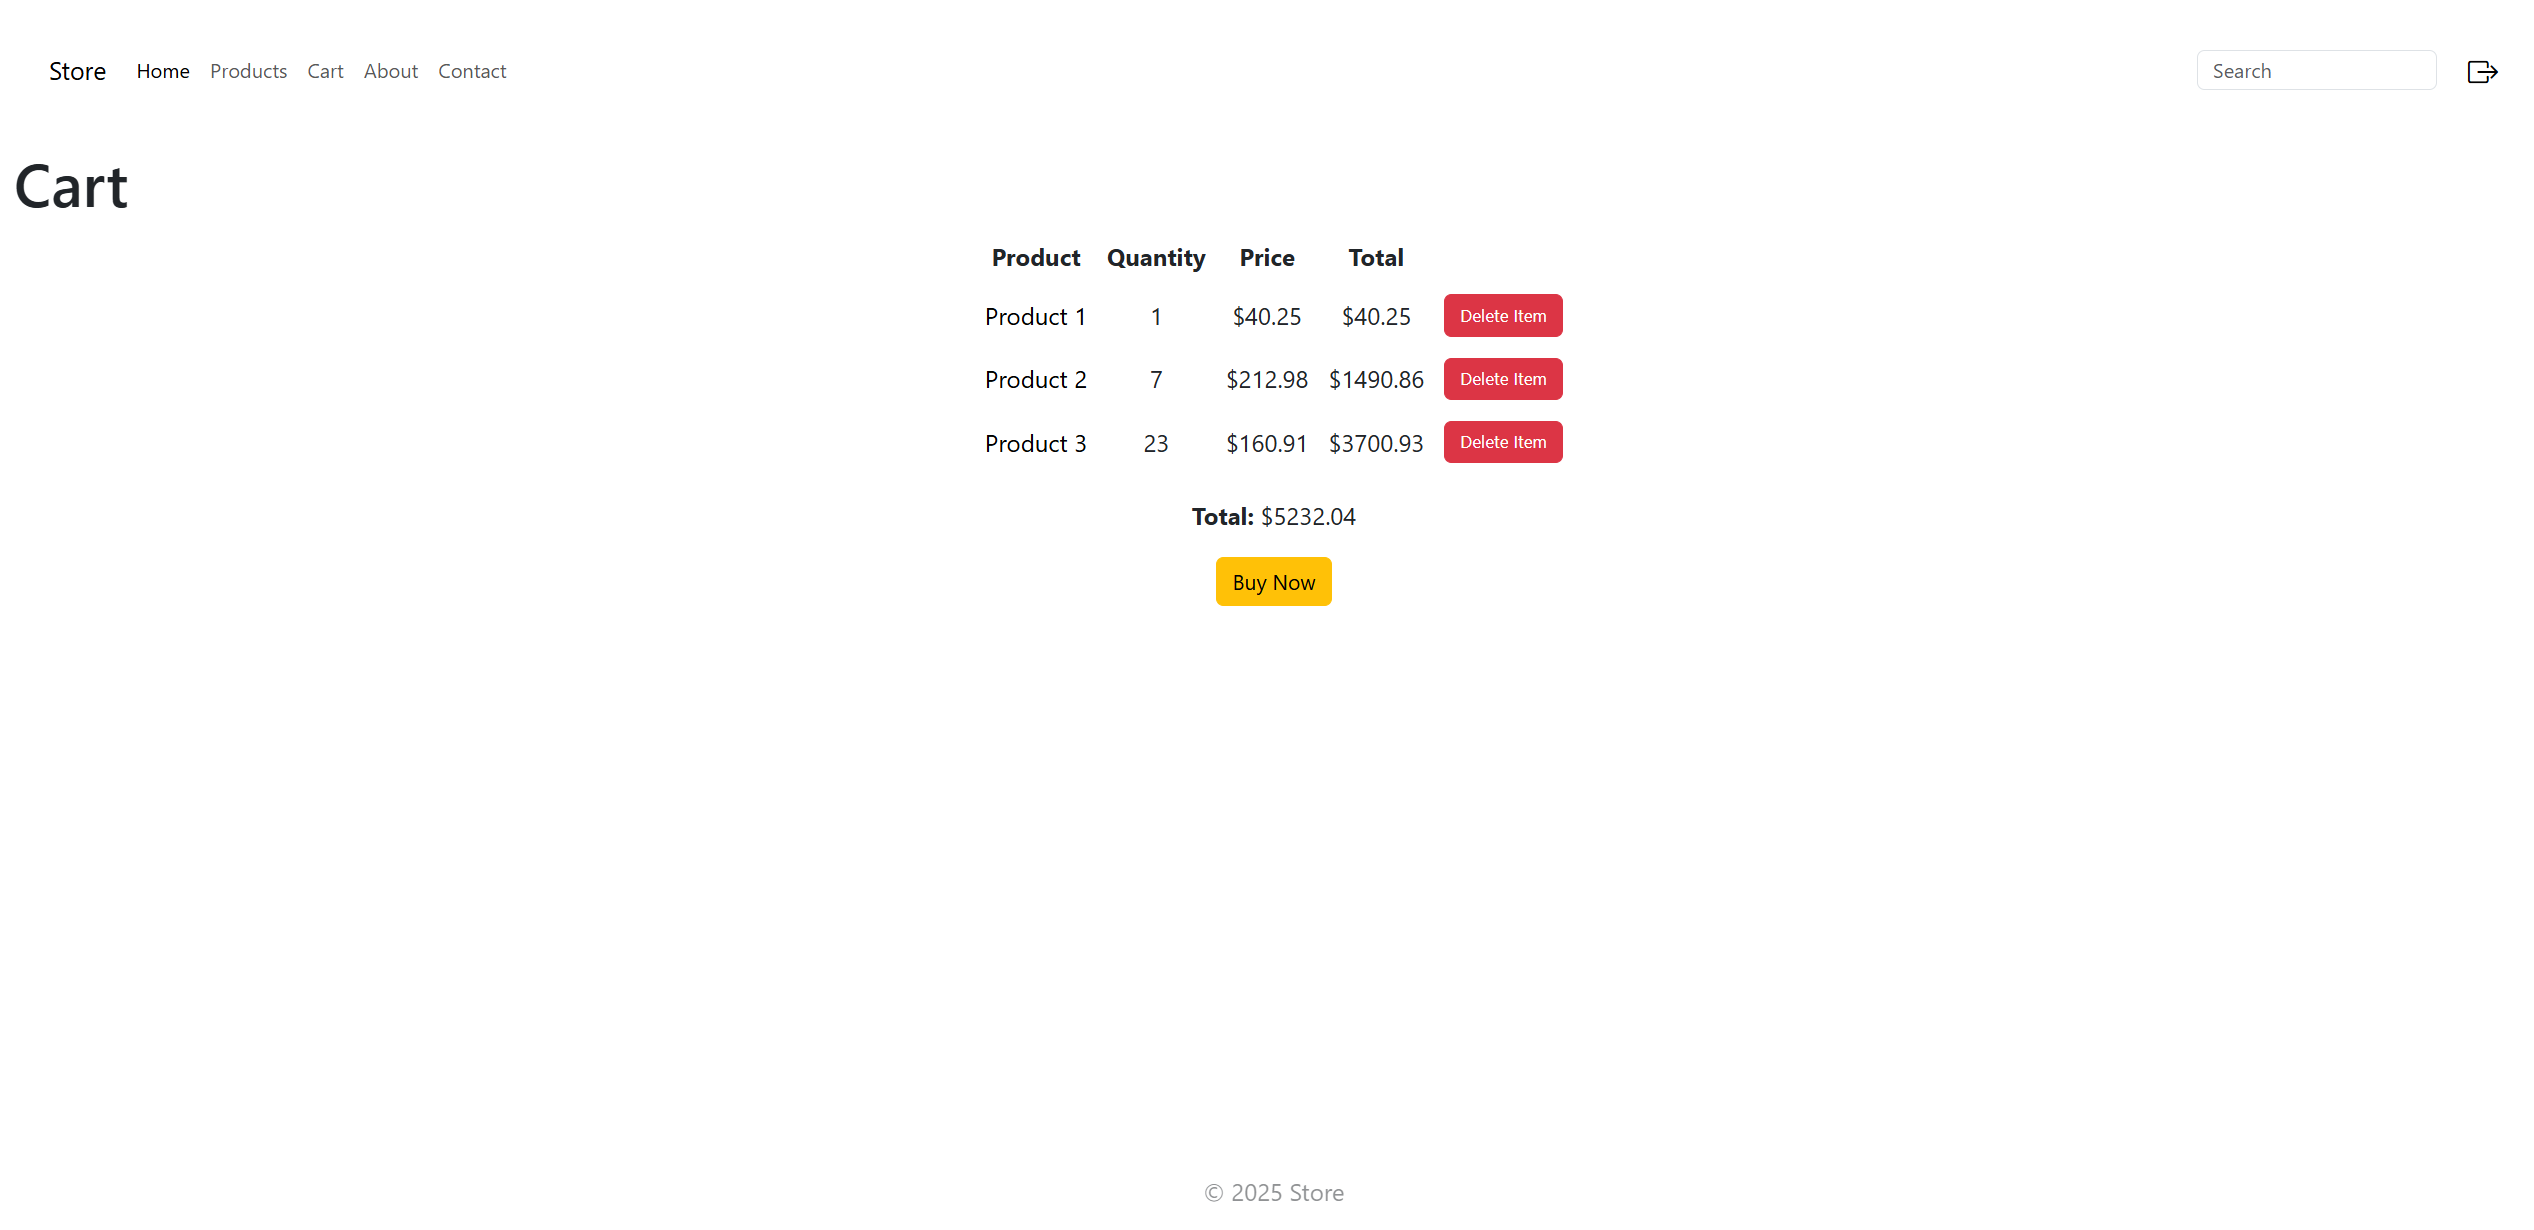
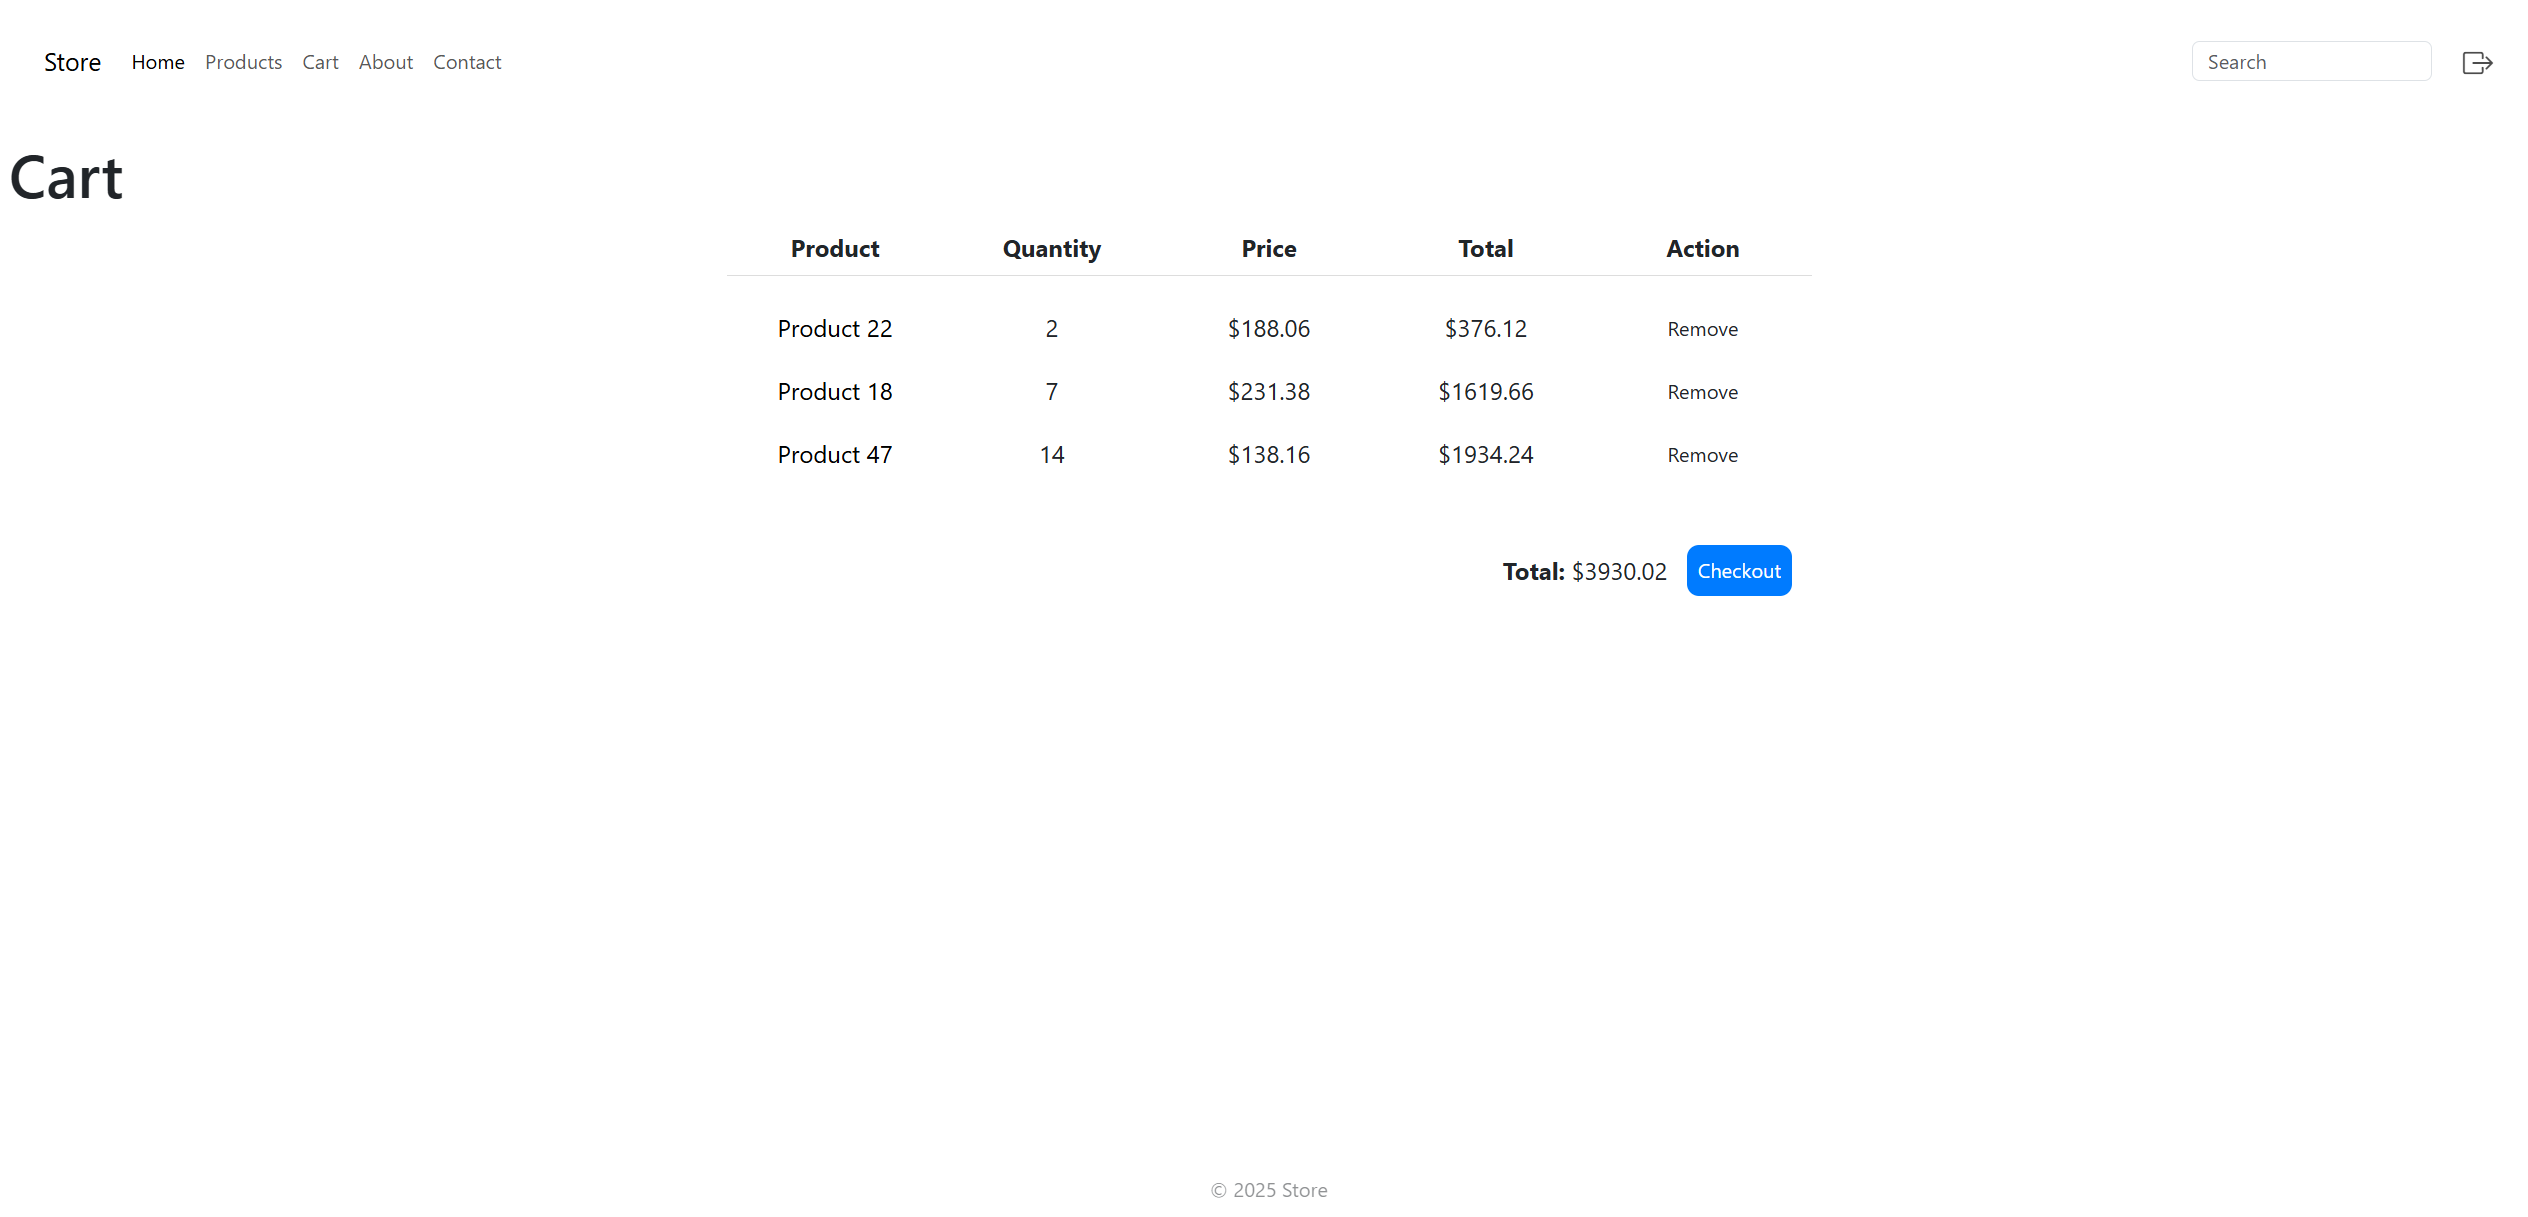
sync

diff --git a/store/templates/cart.html b/store/templates/cart.html
@@ -4,52 +4,56 @@
 
 {% block content %}
 <link rel="stylesheet" href="{% static 'css/cart.css' %}">
-<h1>Cart</h1>
+
+<h1 class="cart-title">Cart</h1>
 
 {% if cart.cart_items.all %}
-<div id="table-container">
-    <table>
-        <thead>
-            <tr>
-                <th>Product</th>
-                <th>Quantity</th>
-                <th>Price</th>
-                <th>Total</th>
-            </tr>
-        </thead>
-        <tbody>
-            {% for item in cart.cart_items.all %}
-            <tr>
-                <td><a href="{% url 'product-detail' item.product.id %}">{{ item.product.name }}</a></td>
-                <td>{{ item.quantity }}</td>
-                <td>${{ item.product.price }}</td>
-                <td>${{ item.get_total_items_price }}</td>
-                <td>
+<div class="cart-wrapper">
 
-                    <form method="post" action="{% url 'remove-from-cart' item.id %}">
-                        {% csrf_token %}
-                        <button type="submit" id="delete-button" class="btn btn-danger">Delete Item</button>
-                    </form>
-                </td>
-            </tr>
-            {% endfor %}
-        </tbody>
-    </table>
+    <div class="cart-grid-header">
+        <div>Product</div>
+        <div>Quantity</div>
+        <div>Price</div>
+        <div>Total</div>
+        <div>Action</div>
+    </div>
+
+    <div class="cart-grid-items">
+        {% for item in cart.cart_items.all %}
+        <div class="cart-grid-row">
+            <div>
+                <a href="{% url 'product-detail' item.product.id %}" class="product-cell">
+                    {{ item.product.name }}
+                </a>
+            </div>
+            <div class="quantity-cell">{{ item.quantity }}</div>
+            <div class="price-cell">${{ item.product.price }}</div>
+            <div class="total-cell">${{ item.get_total_items_price }}</div>
+            <div class="action-cell">
+                <form method="post" action="{% url 'remove-from-cart' item.id %}">
+                    {% csrf_token %}
+                    <button type="submit" class="btn remove-btn">Remove</button>
+                </form>
+            </div>
+        </div>
+        {% endfor %}
+    </div>
+
+    <div class="cart-summary">
+        <div class="cart-total">
+            <strong>Total:</strong> ${{ cart.get_total_cart_price }}
+        </div>
+        <div class="cart-checkout">
+            <a href="{% url 'checkout' %}">
+                <button type="submit" class="btn-checkout">Checkout</button>
+            </a>
+        </div>
+    </div>
 
 </div>
 
-<div id="total-container">
-    <p><strong>Total:</strong> ${{ cart.get_total_cart_price }}</p>
-
-</div>
-<div id="buy-button-container">
-    <form action="{% url 'checkout'%}" method="get">
-        {% csrf_token %}
-        <button id="buy-button" class="btn btn-warning" type="submit">Buy Now</button>
-    </form>
-</div>
 {% else %}
-<p>Cart is empty.</p>
+<p class="empty-cart-msg" id="empty">Cart is empty.</p>
 {% endif %}
 
 {% endblock %}

diff --git a/store/static/css/cart.css b/store/static/css/cart.css
@@ -1,49 +1,92 @@
-table {
-    font-size: clamp(0.8rem, 2.5vw, 1.2rem);
+.cart-wrapper {
+    max-width: 56.25rem;
+    margin: 0 auto;
+    padding: 0 1rem;
+    box-sizing: border-box;
 }
 
-th,
-td {
+.cart-grid-header,
+.cart-grid-row {
+    display: grid;
+    grid-template-columns: repeat(auto-fit, minmax(6rem, 4fr));
+    align-items: center;
+    padding: 0.5rem 0;
     font-size: clamp(0.9rem, 2.5vw, 1.2rem);
-    padding: 0.5rem;
 }
 
-p {
-    font-size: 1.2rem;
-    margin: 1.2rem;
-}
-
-#table-container {
-    display: flex;
-    justify-content: center;
-    align-items: center;
+.cart-grid-header {
     text-align: center;
 }
 
-#total-container {
-    display: flex;
-    justify-content: center;
-    align-self: center;
-}
-
-#buy-button-container {
-    display: flex;
-    justify-content: center;
-    align-items: center;
-    text-align: center;
-}
-
-a {
-    color: black;
-    text-decoration: none;
-}
-
-
-#delete-button {
-    font-size: clamp(0.8rem, 2.5vw, 0.85rem);
+.cart-grid-header {
+    font-weight: bold;
+    border-bottom: 0.0625rem solid #ddd;
     text-wrap: nowrap;
 }
 
-#buy-button {
-    font-size: clamp(1.0rem, 2.5vw, 1.05rem);
+.cart-grid-items {
+    margin-top: 1rem;
+    text-wrap: nowrap;
+}
+
+.product-cell {
+    color: #000;
+    text-decoration: none;
+}
+
+.quantity-cell,
+.price-cell,
+.total-cell,
+.action-cell,
+.product-cell {
+    display: flex;
+    align-items: center;
+    justify-content: center;
+}
+
+.remove-btn {
+    border: none;
+    padding: 0.3rem 0.7rem;
+    border-radius: 0.25rem;
+    cursor: pointer;
+    transition: transform 0.3s ease;
+}
+
+.remove-btn:hover {
+    transform: translateY(-0.1rem);
+}
+
+.cart-summary {
+    display: flex;
+    justify-content: flex-end;
+    align-items: center;
+    margin-top: 2rem;
+    gap: 1rem;
+    padding: 1rem;
+    border-radius: 0.25rem;
+}
+
+.cart-total {
+    font-size: 1.2rem;
+}
+
+.btn-checkout {
+
+    padding: 0.525rem;
+    background-color: #007bff;
+    color: #fff;
+    font-size: 1rem;
+    border: none;
+    border-radius: 0.6rem;
+    cursor: pointer;
+    transition: background-color 0.2s ease;
+}
+
+.btn-checkout:hover {
+    background-color: #0056b3;
+}
+
+#empty {
+    margin-left: 2rem;
+    font-size: 1.5rem;
 }

diff --git a/store/templates/base.html b/store/templates/base.html
@@ -68,12 +68,13 @@
                     {% if user.is_authenticated %}
                     <form action="{% url 'logout' %}" method="POST" class="d-none d-lg-inline-block mb-0 ms-3">
                         {% csrf_token %}
-                        <button type="submit" class="btn btn-link p-0" style="font-size: 1.65rem;">
+                        <button type="submit" class="btn btn-link p-0" style="font-size: 1.65rem;" id="arrow">
                             <i class="bi bi-box-arrow-right"></i>
                         </button>
                     </form>
                     {% else %}
-                    <a href="{% url 'login' %}" class="d-none d-lg-inline-block ms-3" style="font-size: 1.65rem;">
+                    <a href="{% url 'login' %}" class="d-none d-lg-inline-block ms-3" style="font-size: 1.65rem;"
+                        id="person">
                         <i class="bi bi-person"></i>
                     </a>
                     {% endif %}

diff --git a/store/static/css/product-detail.css b/store/static/css/product-detail.css
@@ -16,15 +16,36 @@
     height: fit-content;
     width: 8rem;
     margin: 0.5rem;
+    transition: transform 0.3s ease, box-shadow 0.3s ease;
+}
+
+#quantity:hover {
+    transform: translateY(-0.1rem);
+    box-shadow: 0 0.5rem 1rem rgba(0, 0, 0, 0.12);
 }
 
 #cart-button,
 #buy-button {
     width: 8rem;
     height: fit-content;
+    padding: 0.525rem;
+    background-color: #007bff;
+    color: white;
+    border: none;
+    border-radius: 0.6rem;
+    cursor: pointer;
 
+}
+
+#cart-button:hover,
+#buy-button:hover {
+    background-color: #0056b3;
 }
 
 #cart-button {
     margin: 0.5rem;
+}
+
+p {
+    font-size: 1.1rem;
 }

diff --git a/store/static/css/product-grid.css b/store/static/css/product-grid.css
@@ -1,7 +1,7 @@
 .product-grid {
     display: grid;
     grid-template-columns: repeat(auto-fill, minmax(clamp(12rem, 12vw, 16rem), 1fr));
-    gap: 1.5rem;
+    gap: 3.8rem;
     margin-top: 2.5rem;
     padding: 0 1rem;
 }
@@ -52,4 +52,18 @@
 #p-search {
     font-size: clamp(1rem, 1.1vw, 1.3rem);
     margin-left: 1.5rem;
+}
+
+#cart-button {
+    width: 6.5rem;
+    padding: 0.625rem;
+    background-color: #007bff;
+    color: white;
+    border: none;
+    border-radius: 0.6rem;
+    cursor: pointer;
+}
+
+#cart-button:hover {
+    background-color: #0056b3;
 }

diff --git a/store/templates/product-detail.html b/store/templates/product-detail.html
@@ -23,12 +23,12 @@
             </select>
         </div>
         <div>
-            <button id="cart-button" type="submit" class="btn btn-secondary">Add to Cart</button>
+            <button id="cart-button" type="submit">Add to Cart</button>
         </div>
     </form>
     <form action="{% url 'checkout'%}" method="get">
         {% csrf_token %}
-        <button id="buy-button" class="btn btn-warning" type="submit">Buy Now</button>
+        <button id="buy-button" type="submit">Buy Now</button>
     </form>
 </div>
 {% endblock %}

diff --git a/store/templates/product-grid.html b/store/templates/product-grid.html
@@ -14,8 +14,6 @@
 {% endif %}
 {% endif %}
 
-
-
 <div class="product-grid">
     {% for product in products %}
     <div class="product-card">
@@ -30,7 +28,7 @@
             {% csrf_token %}
             <input type="hidden" name="quantity" value="1">
 
-            <button type="submit" class="btn btn-secondary">Add to Cart</button>
+            <button type="submit" id="cart-button">Add to Cart</button>
         </form>
     </div>
     {% endfor %}

diff --git a/store/static/css/styles.css b/store/static/css/styles.css
@@ -40,3 +40,13 @@ footer {
     font-size: 1rem;
     text-align: center;
 }
+
+#arrow,
+#person {
+    opacity: 0.7;
+}
+
+#arrow:hover,
+#person:hover {
+    opacity: 1.0;
+}

diff --git a/store/store/management/commands/create_products.py b/store/store/management/commands/create_products.py
@@ -17,7 +17,7 @@ class Command(BaseCommand):
         for i in range(count):
             Product.objects.create(
                 name=f"Product {i+1}",
-                description=f"Description for product {i+1}",
+                description=f"Description for Product {i+1}",
                 price=round(random.uniform(10.0, 500.0), 2),
                 stock=random.randint(0, 100),
                 categories=random.sample(['Electronics', 'Clothing', 'Books', 'Home', 'Toys'], k=random.randint(1, 3)),

diff --git a/store/store/settings.py b/store/store/settings.py
@@ -26,7 +26,7 @@ SECRET_KEY = 'django-insecure-l8nd9($ucx$9#&!)3y!!+t051&9mc-8c4gd4ny7_o&amynbt0)
 # SECURITY WARNING: don't run with debug turned on in production!
 DEBUG = True
 
-ALLOWED_HOSTS = []
+ALLOWED_HOSTS = ALLOWED_HOSTS = ['10.0.2.2', '127.0.0.1']
 
 
 # Application definition
